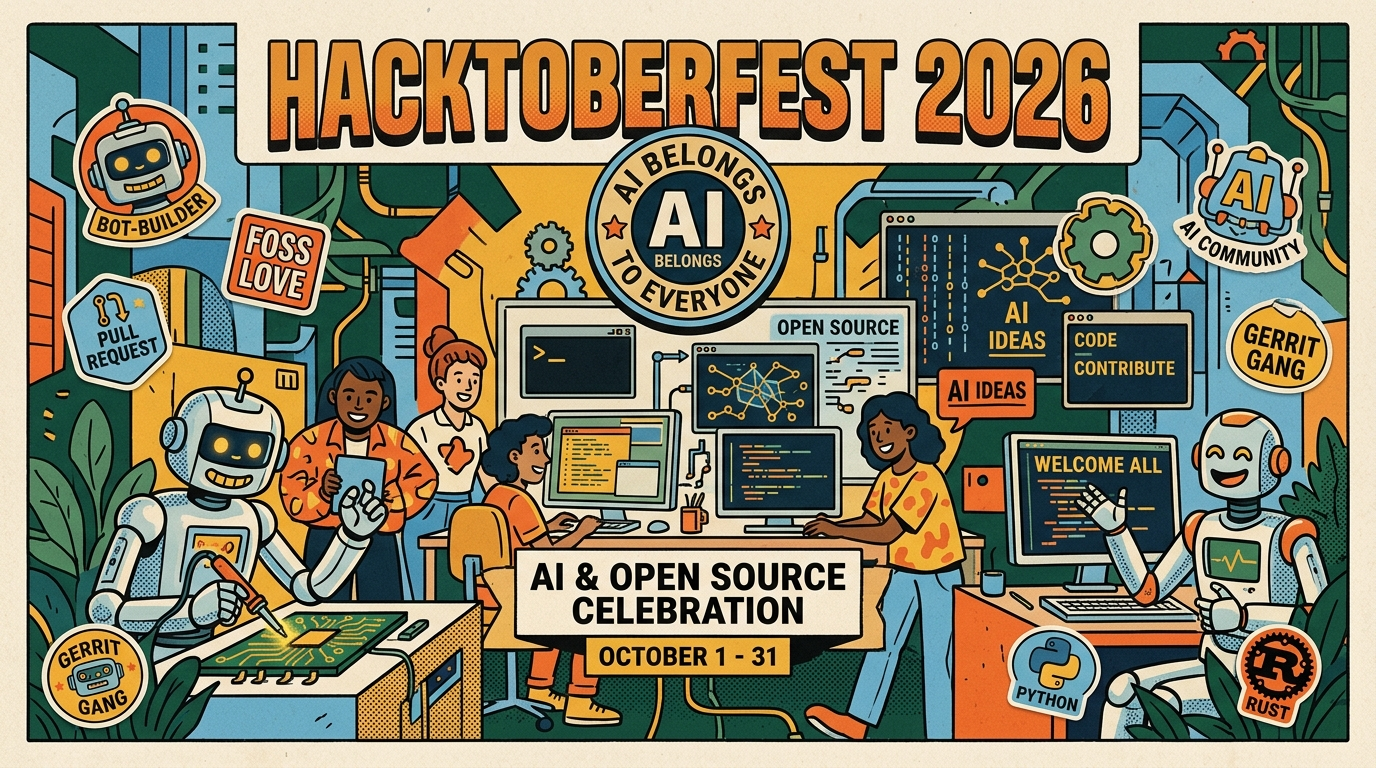
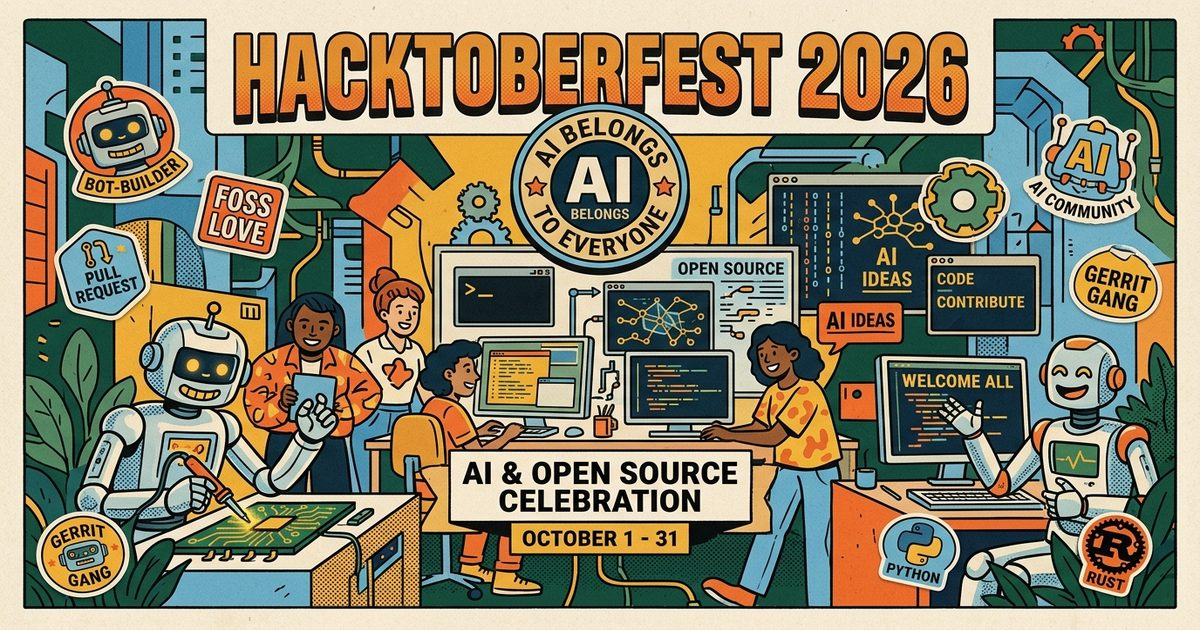
feat: add Open Graph thumbnail asset and update social meta tags with absolute URLs and dimensions

diff --git a/index.html b/index.html
@@ -17,28 +17,30 @@
 
   <!-- Open Graph / Facebook / WhatsApp / LinkedIn / Discord -->
   <meta property="og:type" content="website">
+  <meta property="og:url" content="https://venelouis.github.io/hacktoberfest2026/">
   <meta property="og:locale" content="pt_BR">
   <meta property="og:site_name" content="Hacktoberfest 2026 Brasil">
   <meta property="og:title" content="Hacktoberfest 2026 • A IA Pertence a Todos | Guia Oficial Brasil">
   <meta property="og:description" content="300+ Fests presenciais e evento global online. Aprenda, construa com IA Open-Source e ganhe adesivos oficiais na sua casa durante todo o mês de outubro!">
-  <meta property="og:image" content="assets/og-thumb.jpg">
-  <meta property="og:image:secure_url" content="assets/og-thumb.jpg">
+  <meta property="og:image" content="https://venelouis.github.io/hacktoberfest2026/assets/og-thumb.jpg">
+  <meta property="og:image:secure_url" content="https://venelouis.github.io/hacktoberfest2026/assets/og-thumb.jpg">
   <meta property="og:image:type" content="image/jpeg">
-  <meta property="og:image:width" content="1280">
-  <meta property="og:image:height" content="720">
+  <meta property="og:image:width" content="1200">
+  <meta property="og:image:height" content="630">
   <meta property="og:image:alt" content="Banner oficial e thumbnail do Hacktoberfest 2026 com robôs e desenvolvedores celebrando a inteligência artificial de código aberto">
 
   <!-- Twitter / X Card -->
   <meta name="twitter:card" content="summary_large_image">
+  <meta name="twitter:url" content="https://venelouis.github.io/hacktoberfest2026/">
   <meta name="twitter:title" content="Hacktoberfest 2026 • A IA Pertence a Todos | Guia Brasil">
   <meta name="twitter:description" content="O maior evento de código aberto do mundo agora com IA livre: sem PRs obrigatórios, agenda interativa, simulador de stickers e Fests presenciais!">
-  <meta name="twitter:image" content="assets/og-thumb.jpg">
+  <meta name="twitter:image" content="https://venelouis.github.io/hacktoberfest2026/assets/og-thumb.jpg">
   <meta name="twitter:image:alt" content="Ilustração oficial Hacktoberfest 2026 - AI Belongs to Everyone">
   <meta name="twitter:creator" content="@venelouis">
 
   <!-- Favicon -->
   <link rel="icon" href="https://hacktoberfest.com/favicon-32.png" type="image/png">
-  <link rel="apple-touch-icon" href="assets/og-thumb.jpg">
+  <link rel="apple-touch-icon" href="https://venelouis.github.io/hacktoberfest2026/assets/og-thumb.jpg">
 
   <!-- Google Fonts: Barlow Semi Condensed, Inter & Martian Mono -->
   <link rel="preconnect" href="https://fonts.googleapis.com">

diff --git a/politica-de-privacidade.html b/politica-de-privacidade.html
@@ -12,19 +12,20 @@
 
   <!-- Open Graph / Social Media -->
   <meta property="og:type" content="article">
+  <meta property="og:url" content="https://venelouis.github.io/hacktoberfest2026/politica-de-privacidade.html">
   <meta property="og:locale" content="pt_BR">
   <meta property="og:site_name" content="Hacktoberfest 2026 Brasil">
   <meta property="og:title" content="Política de Privacidade • Hacktoberfest 2026 Brasil">
   <meta property="og:description" content="Política de Privacidade do guia Hacktoberfest 2026 Brasil: total conformidade com a LGPD (Brasil), CCPA/CPRA e COPPA (EUA).">
-  <meta property="og:image" content="assets/og-thumb.jpg">
-  <meta property="og:image:width" content="1280">
-  <meta property="og:image:height" content="720">
+  <meta property="og:image" content="https://venelouis.github.io/hacktoberfest2026/assets/og-thumb.jpg">
+  <meta property="og:image:width" content="1200">
+  <meta property="og:image:height" content="630">
 
   <!-- Twitter Card -->
   <meta name="twitter:card" content="summary_large_image">
   <meta name="twitter:title" content="Política de Privacidade • Hacktoberfest 2026 Brasil">
   <meta name="twitter:description" content="Compromisso de privacidade e segurança de dados do portal comunitário Hacktoberfest 2026 Brasil.">
-  <meta name="twitter:image" content="assets/og-thumb.jpg">
+  <meta name="twitter:image" content="https://venelouis.github.io/hacktoberfest2026/assets/og-thumb.jpg">
 
   <link rel="icon" href="https://hacktoberfest.com/favicon-32.png" type="image/png">
   

diff --git a/termos-de-uso.html b/termos-de-uso.html
@@ -12,19 +12,20 @@
 
   <!-- Open Graph / Social Media -->
   <meta property="og:type" content="article">
+  <meta property="og:url" content="https://venelouis.github.io/hacktoberfest2026/termos-de-uso.html">
   <meta property="og:locale" content="pt_BR">
   <meta property="og:site_name" content="Hacktoberfest 2026 Brasil">
   <meta property="og:title" content="Termos de Uso • Hacktoberfest 2026 Brasil">
   <meta property="og:description" content="Termos de Uso do portal comunitário Hacktoberfest 2026 Brasil, em conformidade com o Marco Civil da Internet, leis norte-americanas (DMCA/FTC) e sul-americanas.">
-  <meta property="og:image" content="assets/og-thumb.jpg">
-  <meta property="og:image:width" content="1280">
-  <meta property="og:image:height" content="720">
+  <meta property="og:image" content="https://venelouis.github.io/hacktoberfest2026/assets/og-thumb.jpg">
+  <meta property="og:image:width" content="1200">
+  <meta property="og:image:height" content="630">
 
   <!-- Twitter Card -->
   <meta name="twitter:card" content="summary_large_image">
   <meta name="twitter:title" content="Termos de Uso • Hacktoberfest 2026 Brasil">
   <meta name="twitter:description" content="Diretrizes jurídicas e de uso do portal comunitário Hacktoberfest 2026 Brasil.">
-  <meta name="twitter:image" content="assets/og-thumb.jpg">
+  <meta name="twitter:image" content="https://venelouis.github.io/hacktoberfest2026/assets/og-thumb.jpg">
 
   <link rel="icon" href="https://hacktoberfest.com/favicon-32.png" type="image/png">
   
